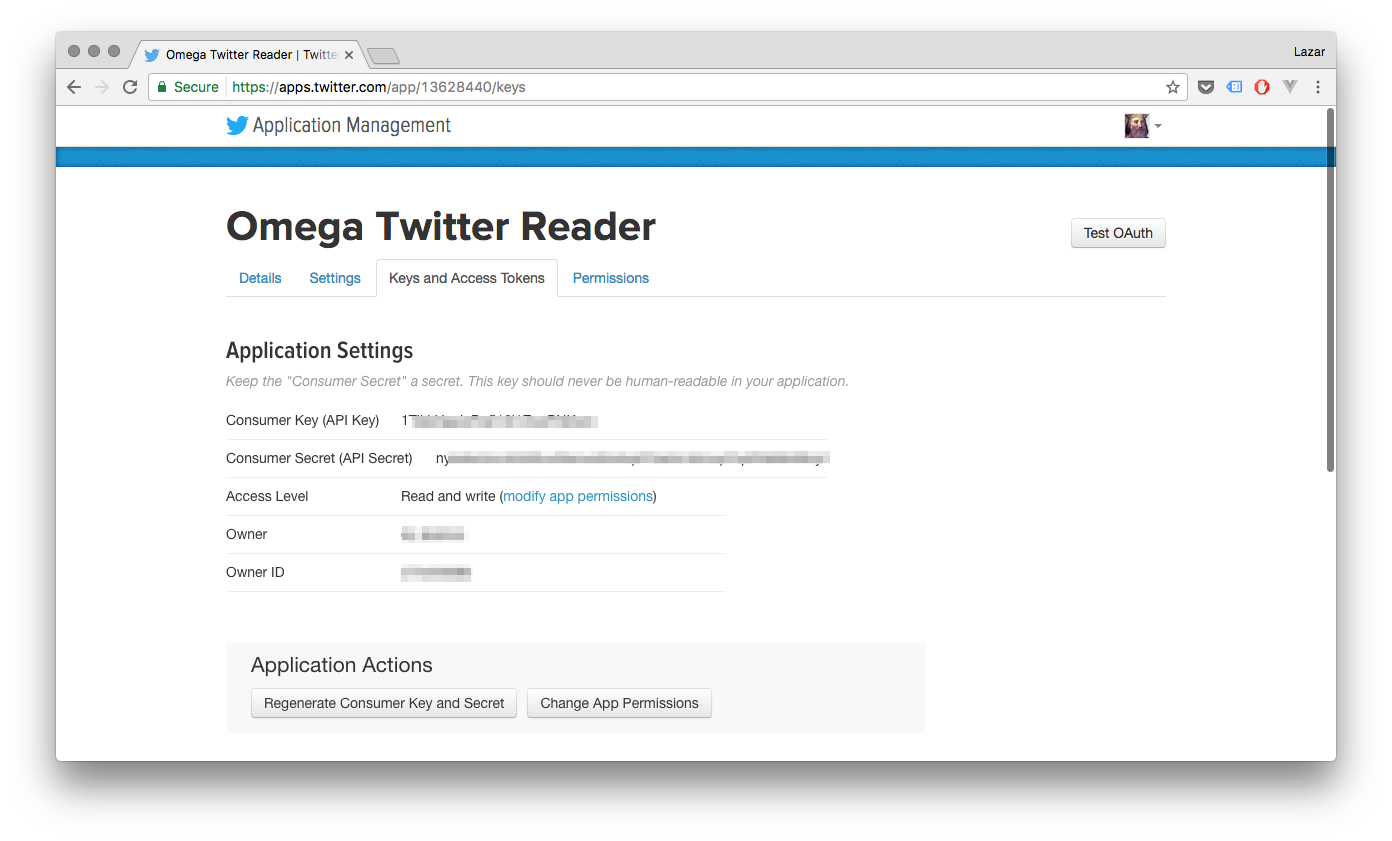
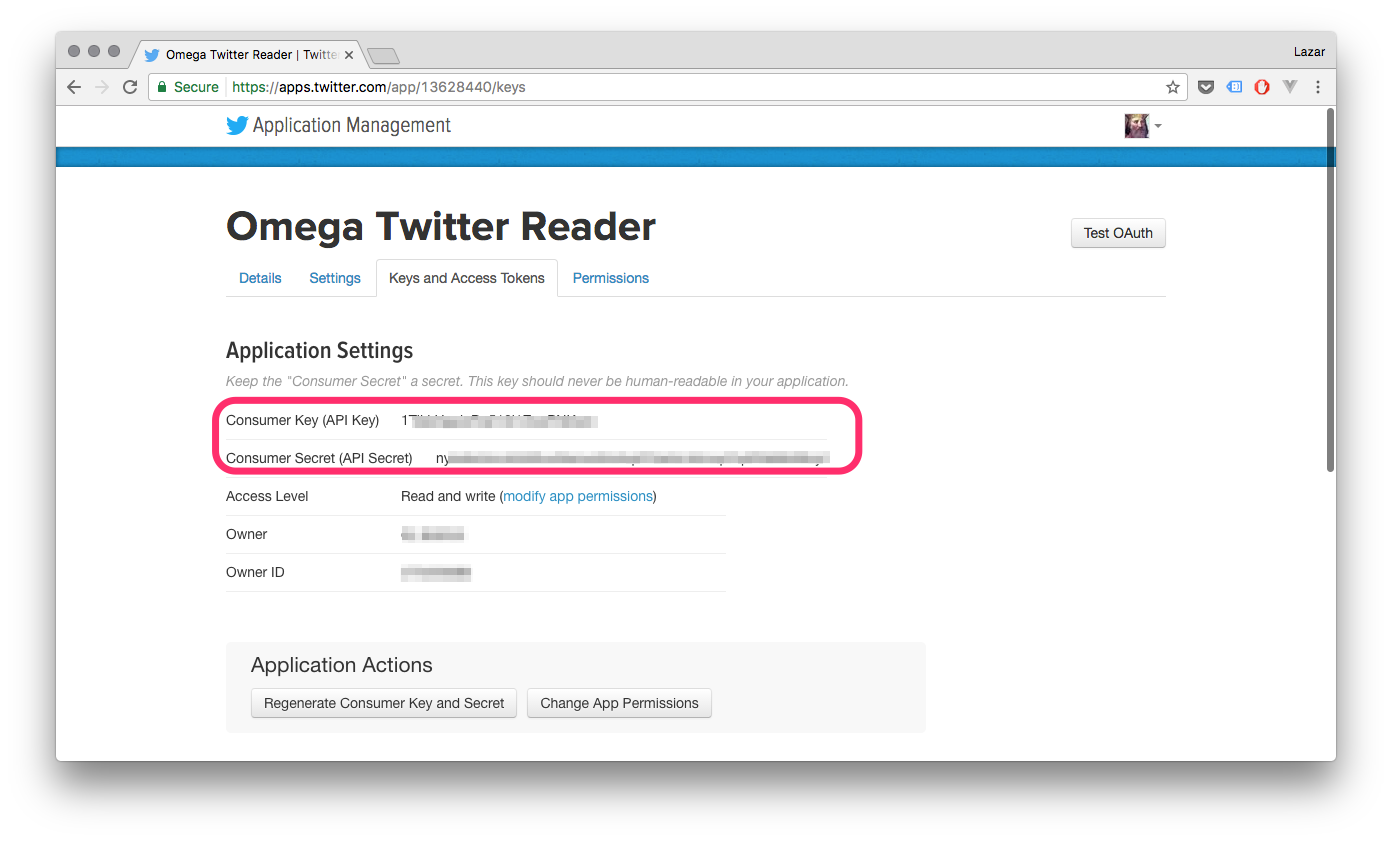
markdown fix (attempt) and screenshot labelling

Changed region(s): [[0.1545, 0.4637, 0.6178, 0.5874]]

diff --git a/Omega2/Projects/oled/twitter-feed.md b/Omega2/Projects/oled/twitter-feed.md
@@ -72,14 +72,13 @@ We'll need to create a Twitter Application in order to be able to use Twitter's 
   ![twitter apps create app](./img/twitter-feed-screenshot-1.png)
 1. Read and agree to the Twitter Developer Agreement and hit Create your Twitter application.
   ![twitter apps create app part 2](./img/twitter-feed-screenshot-2.png)
-  > Note that your Twitter account must have an associated mobile phone number before Twitter will allow you to create an application!
+
+  >Note that your Twitter account must have an associated mobile phone number before Twitter will allow you to create an application!
 
 1. Your Application is now created!
   ![twitter app created](./img/twitter-feed-screenshot-3.png)
 1. Head over to the **Keys and Access Tokens** tab to grab the info we need
   ![twitter app keys](./img/twitter-feed-screenshot-4.png)
-
-  // TODO: the photo needs to be edited to circle the Consumer Key and Consumer secret
 
 
 #### 5. Setup and Run the Code
